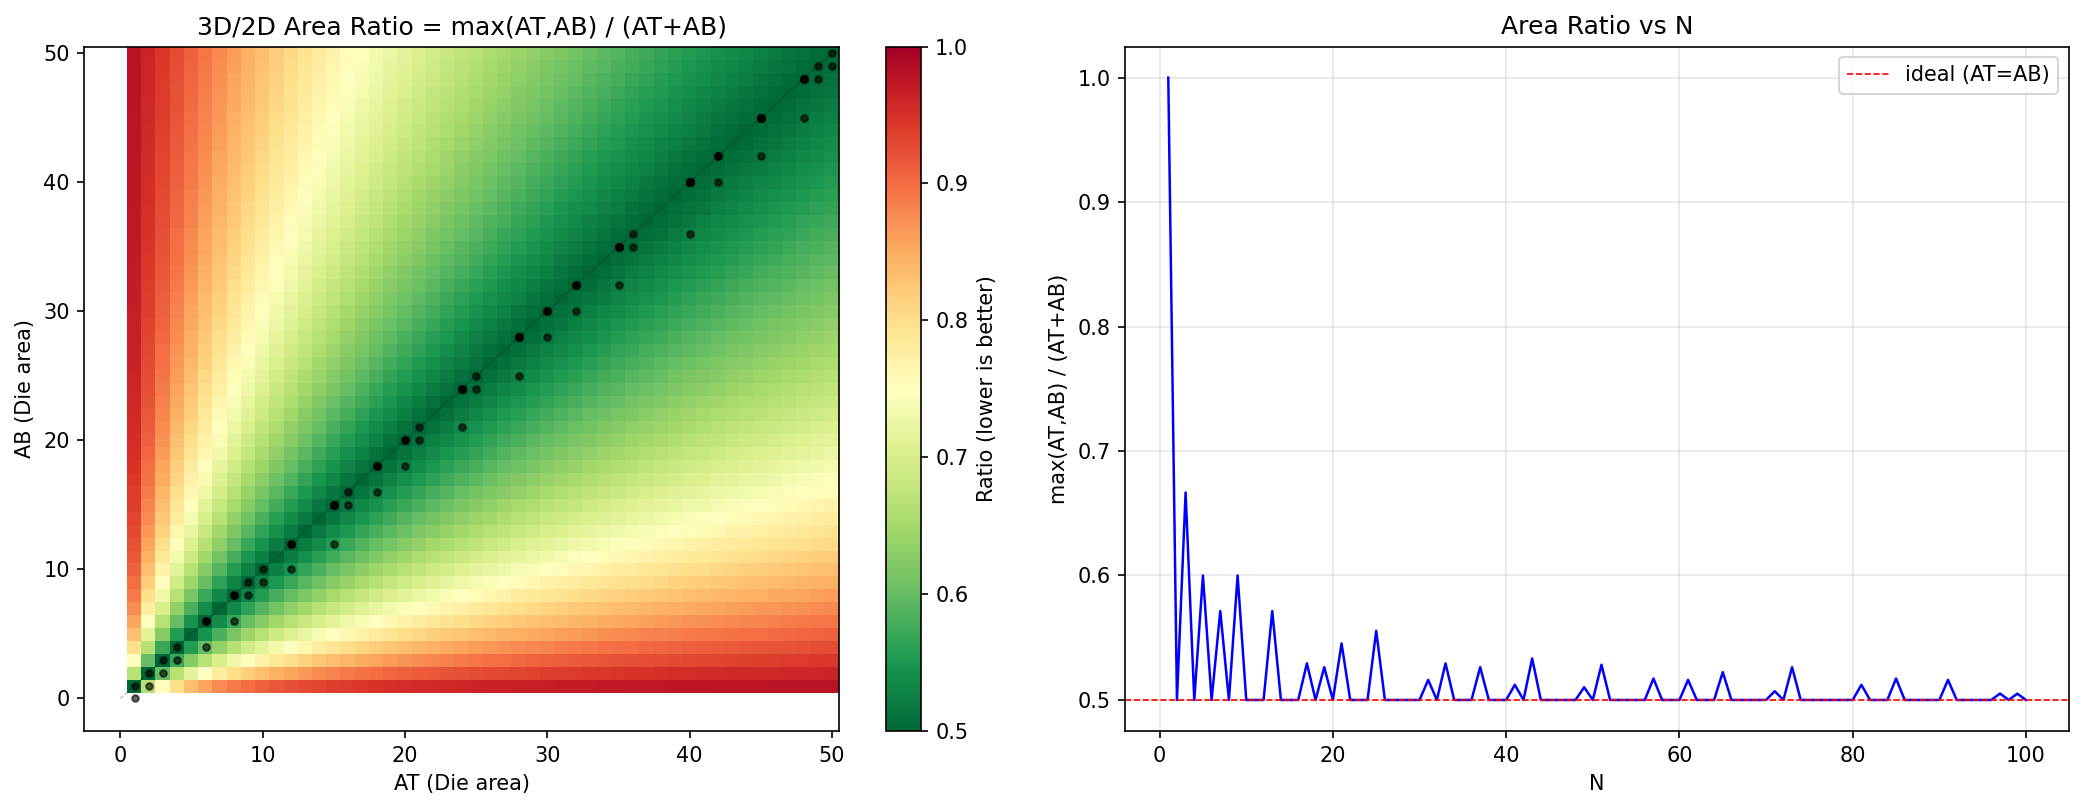
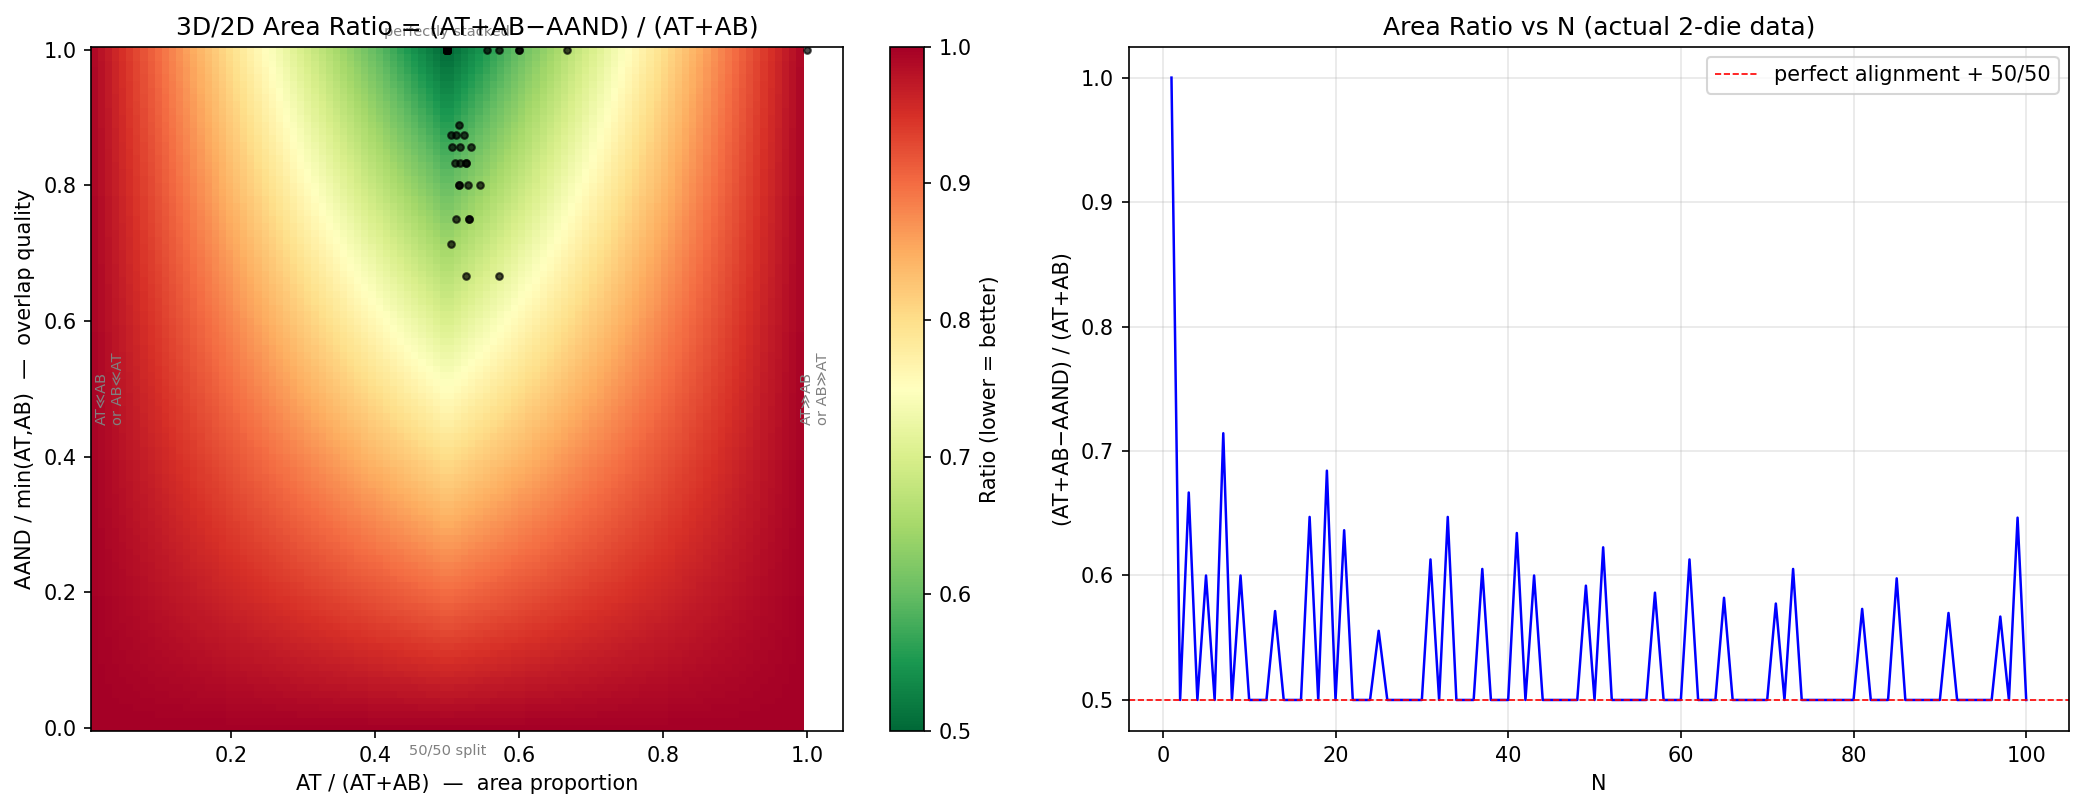
fix: correct area model — AAND=A_overlap, not just min(AT,AB)

diff --git a/experiment.py b/experiment.py
@@ -530,39 +530,69 @@ def plot_wl_by_length(n_max: int = 100, save_path: str | None = None):
 
 
 def plot_area_utilization(n_max: int = 100, save_path: str | None = None):
-    """Colormap: 3D area ratio = max(AT, AB) / (AT + AB) for any partition sizes."""
+    """Colormap: 3D/2D area ratio = (AT+AB-AAND)/(AT+AB)
+    Two degrees of freedom: area proportion + overlap quality (= AAND/min(AT,AB))."""
     try:
         import matplotlib.pyplot as plt
         import numpy as np
     except ImportError:
         return
 
-    grid = np.arange(1, 51)
-    AT_m, AB_m = np.meshgrid(grid, grid)
-    ratio_map = np.maximum(AT_m, AB_m) / (AT_m + AB_m)
+    # x-axis: AT fraction = AT/(AT+AB), from 0 to 1
+    # y-axis: overlap quality = AAND / min(AT,AB), from 0 (fully misaligned) to 1 (perfectly stacked)
+    # color: ratio = (AT+AB-AAND)/(AT+AB)
+
+    ft = np.linspace(0.01, 0.99, 100)        # AT fraction
+    ov = np.linspace(0.0, 1.0, 101)           # overlap quality
+    F, O = np.meshgrid(ft, ov)
+
+    # For given AT fraction f and total area S=AT+AB:
+    # AT = f*S, AB = (1-f)*S
+    # AAND = O * min(AT, AB) = O * min(f, 1-f) * S
+    # ratio = (S - O*min(f,1-f)*S) / S = 1 - O*min(f,1-f)
+    ratio = 1 - O * np.minimum(F, 1 - F)
 
     fig, (ax1, ax2) = plt.subplots(1, 2, figsize=(14, 5.5))
 
-    im = ax1.pcolormesh(AT_m, AB_m, ratio_map, shading='auto', cmap='RdYlGn_r', vmin=0.5, vmax=1.0)
-    ax1.set_xlabel("AT (Die area)"); ax1.set_ylabel("AB (Die area)")
-    ax1.set_title("3D/2D Area Ratio = max(AT,AB) / (AT+AB)")
-    cbar = fig.colorbar(im, ax=ax1, label="Ratio (lower is better)")
-    # Overlay actual N data
-    ATs = []; ABs = []
+    im = ax1.pcolormesh(F, O, ratio, shading='auto', cmap='RdYlGn_r', vmin=0.5, vmax=1.0)
+    ax1.set_xlabel("AT / (AT+AB)  —  area proportion"); ax1.set_ylabel("AAND / min(AT,AB)  —  overlap quality")
+    ax1.set_title("3D/2D Area Ratio = (AT+AB−AAND) / (AT+AB)")
+    cbar = fig.colorbar(im, ax=ax1, label="Ratio (lower = better)")
+    # Labels
+    ax1.text(0.5, 1.02, 'perfectly stacked', ha='center', fontsize=7, color='gray')
+    ax1.text(0.5, -0.04, '50/50 split', ha='center', fontsize=7, color='gray')
+    ax1.text(0.01, 0.5, 'AT≪AB\nor AB≪AT', va='center', fontsize=7, color='gray', rotation=90)
+    ax1.text(0.99, 0.5, 'AT≫AB\nor AB≫AT', va='center', fontsize=7, color='gray', rotation=90)
+
+    # Overlay our actual N data: compute AT, AB from N, and AAND from actual shapes
+    ATs = []; ABs = []; AANDs = []
     for n in range(1, n_max + 1):
         c = math.ceil(n / 2); f = n - c
-        a, b = optimal_2d_dims(c); at = a * b
-        a2, b2 = optimal_2d_dims(f) if f > 0 else (0, 0); ab = a2 * b2
-        ATs.append(at); ABs.append(ab)
-    ax1.scatter(ATs, ABs, c='black', s=10, alpha=0.6, zorder=5)
-    ax1.plot([0, 50], [0, 50], 'k--', lw=0.5, alpha=0.3)
+        ra, ca = optimal_2d_dims(c); at = ra * ca
+        rb, cb = optimal_2d_dims(f) if f > 0 else (0, 0); ab = rb * cb
+        # AAND: actual overlap given the two bounding boxes
+        # Overlap area = min(ra,rb) * min(ca,cb)  (assuming aligned top-left)
+        # But user wants the general case, so for actual data:
+        # If one die is ra×ca and other is rb×cb, when stacked aligned:
+        # overlapping rows = min(ra, rb), overlapping cols = min(ca, cb)
+        if f > 0:
+            aoverlap = min(ra, rb) * min(ca, cb)
+        else:
+            aoverlap = 0
+        ATs.append(at); ABs.append(ab); AANDs.append(aoverlap)
 
-    ratios_N = [max(at, ab) / (at + ab) if at + ab > 0 else 1
-                for at, ab in zip(ATs, ABs)]
+    ft_vals = [at / (at + ab) if at + ab > 0 else 0.5 for at, ab in zip(ATs, ABs)]
+    ov_vals = [ao / min(at, ab) if min(at, ab) > 0 else 1 for at, ab, ao in zip(ATs, ABs, AANDs)]
+    ax1.scatter(ft_vals, ov_vals, c='black', s=10, alpha=0.7, zorder=5)
+
+    # Right: ratio vs N
+    ratios_N = [(at + ab - ao) / (at + ab) if at + ab > 0 else 1
+                for at, ab, ao in zip(ATs, ABs, AANDs)]
     ax2.plot(range(1, n_max + 1), ratios_N, 'b-', lw=1.2)
-    ax2.axhline(0.5, color='red', ls='--', lw=0.8, label='ideal (AT=AB)')
-    ax2.set_xlabel("N"); ax2.set_ylabel("max(AT,AB) / (AT+AB)")
-    ax2.set_title("Area Ratio vs N"); ax2.legend(); ax2.grid(True, alpha=0.3)
+    ax2.axhline(0.5, color='red', ls='--', lw=0.8, label='perfect alignment + 50/50')
+    ax2.set_xlabel("N"); ax2.set_ylabel("(AT+AB−AAND) / (AT+AB)")
+    ax2.set_title("Area Ratio vs N (actual 2-die data)"); ax2.legend()
+    ax2.grid(True, alpha=0.3)
     fig.tight_layout()
 
     if save_path:

diff --git a/README.md b/README.md
@@ -210,17 +210,21 @@ $$|\text{Intra}_0| = \frac{C(C-1)}{2},\quad |\text{Intra}_1| = \frac{F(F-1)}{2},
 
 ## 实验五：Die 面积利用率
 
-双 Die 堆叠的另一个收益维度——**面积**。设上 Die 面积 $A_T$、下 Die 面积 $A_B$，在 2D 中两 Die 总面积 = $A_T + A_B$；3D 堆叠后 footprint = $\max(A_T, A_B)$。
+双 Die 堆叠中，两 Die 的矩形形状可能不对齐。设上 Die 面积 $A_T$、下 Die 面积 $A_B$，它们的重叠区域为 $A_{\text{AND}}$（即两矩形交集的面积）。
 
-面积比 = $\frac{\max(A_T, A_B)}{A_T + A_B}$
+- 2D 总面积 = $A_T + A_B$
+- 3D 有效面积 = $A_T + A_B - A_{\text{AND}}$（两 Die 的并集，即 AOR）
+- 面积比 = $\frac{A_T + A_B - A_{\text{AND}}}{A_T + A_B}$
 
-两 Die 面积越接近 → 比值越小 → 3D 面积收益越大。理想情况 $A_T = A_B$ 时比值 = 0.5（面积节省 50%）；一 Die 碾压另一 Die 时比值 → 1（无收益）。
+两个自由度：
+- **面积比例**：$A_T / (A_T + A_B)$，失衡越严重比值越差
+- **重叠质量**：$A_{\text{AND}} / \min(A_T, A_B)$，错位越大重叠越少、比值越差
 
 ![Area Utilization](output/plot_area_util.png)
 
-- 左图：任意 $(A_T, A_B)$ 组合的 colormap，对角线上收益最大
-- 右图：实际 N=1..100 的双 Die 面积比曲线，整体接近理想 0.5（因为 2-Die 均分 $N/2$ 后面积天然接近）
-- 黑点标注了我们的实际数据点
+- 左图 colormap：x 轴 = 面积比例，y 轴 = 重叠质量，颜色 = 面积比。右下角（50/50 + 完美对齐）收益最大，边缘（一 Die 碾压另一 Die 或完全错位）收益归零
+- 右图：实际 N=1..100 数据点，整体贴近理想线
+- 黑点标注了我们的实际数据
 
 ---
 
